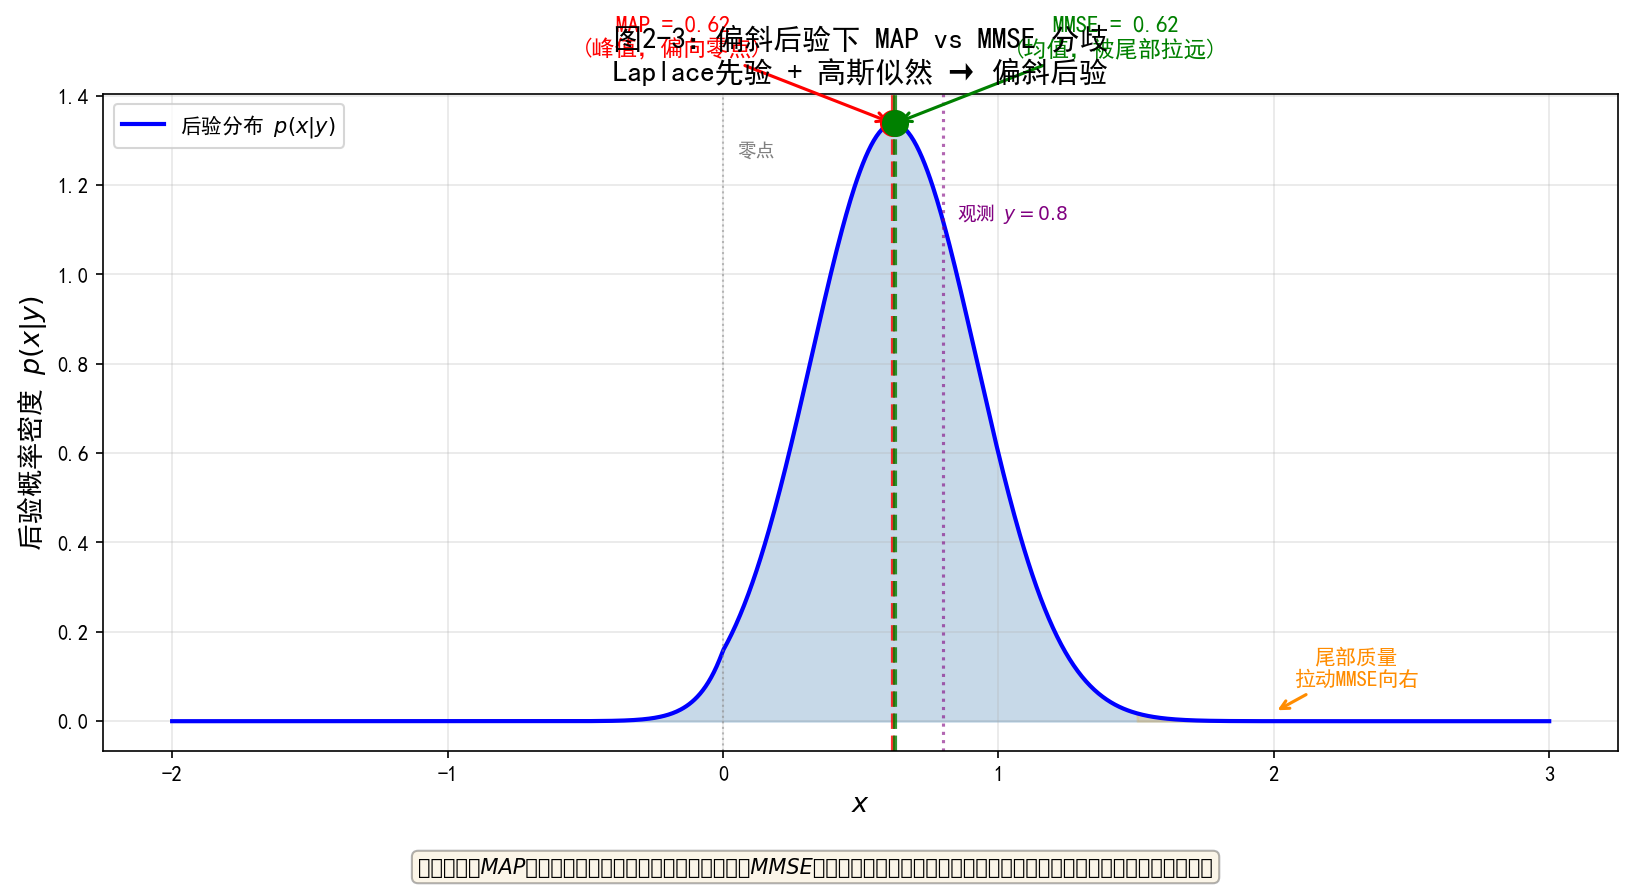
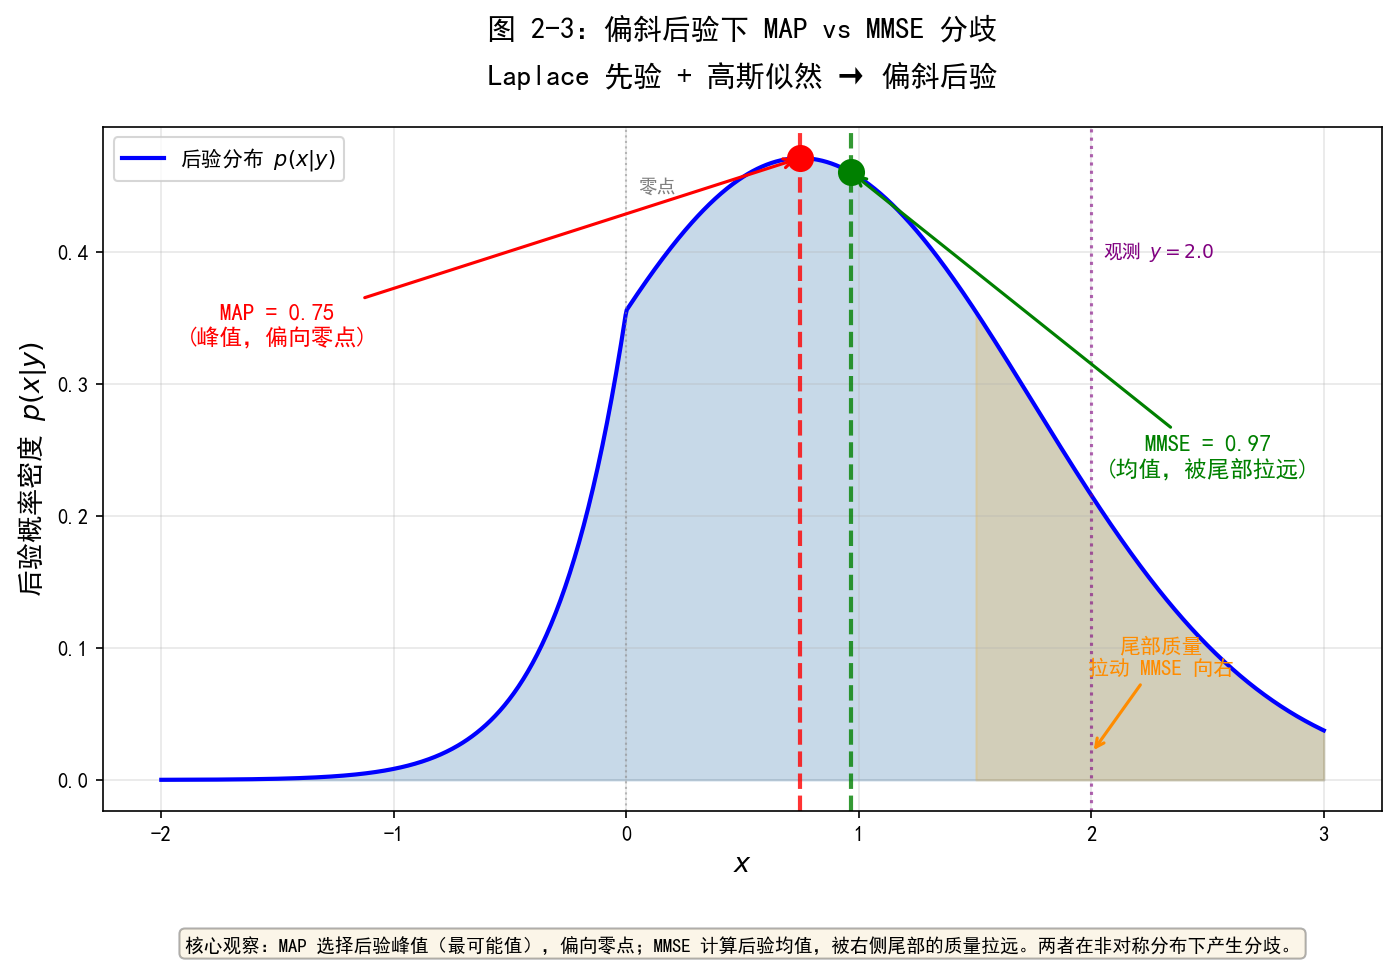
new

diff --git a/temp/图2-3_偏斜分布MMSE_vs_MAP/图2-3_偏斜分布MMSE_vs_MAP.py b/temp/图2-3_偏斜分布MMSE_vs_MAP/图2-3_偏斜分布MMSE_vs_MAP.py
@@ -1,7 +1,7 @@
 """
-图2-3：偏斜分布下 MMSE vs MAP 分歧示意
-对应章节：2.3 先验的质量：MMSE vs MAP估计器 - "分歧的情形"
-知识点：偏斜后验下，MAP偏向峰值（零点），MMSE被尾部拉远
+图 2-3：偏斜分布下 MMSE vs MAP 分歧示意
+对应章节：2.3 先验的质量：MMSE vs MAP 估计器 - "分歧的情形"
+知识点：偏斜后验下，MAP 偏向峰值（零点），MMSE 被尾部拉远
 """
 
 import numpy as np
@@ -20,31 +20,36 @@ if os.path.isdir(_chinese_path):
         from chinese_font import setup_chinese_font
         setup_chinese_font(save_dir=_chinese_path)
     except ImportError:
-        print("警告: chinese_font 模块未找到，中文字体可能无法正常显示")
+        print("警告：chinese_font 模块未找到，中文字体可能无法正常显示")
 else:
-    print("警告: .chinese 文件夹未找到，中文字体可能无法正常显示")
+    print("警告：.chinese 文件夹未找到，中文字体可能无法正常显示")
 
 # ─── 构造偏斜后验分布 ───
-# Laplace先验 + 高斯似然 → 偏斜后验
-# 先验: p(x) ∝ exp(-|x|/b)  (Laplace, b=0.5)
-# 似然: p(y|x) ∝ exp(-(y-x)^2/(2σ^2))  (σ=0.3)
-# 后验: p(x|y) ∝ exp(-|x|/b - (y-x)^2/(2σ^2))
+# 确保中文字体在所有绘图操作之前加载
+plt.rcParams['font.sans-serif'] = ['SimHei', 'Microsoft YaHei'] + plt.rcParams.get('font.sans-serif', [])
+plt.rcParams['font.family'] = 'sans-serif'
+plt.rcParams['axes.unicode_minus'] = False
+
+# Laplace 先验 + 高斯似然 → 偏斜后验
+# 先验：p(x) ∝ exp(-|x|/b)  (Laplace, b=0.5)
+# 似然：p(y|x) ∝ exp(-(y-x)^2/(2σ^2))  (σ=0.3)
+# 后验：p(x|y)  exp(-|x|/b - (y-x)^2/(2σ^2))
 # 这个后验是偏斜的：峰值偏向零点，尾部向远离零点方向延伸
 
-b = 0.5      # Laplace先验尺度
-sigma = 0.3  # 噪声标准差
-y_obs = 0.8  # 观测值
+b = 0.8      # Laplace 先验尺度（适中，MAP 被适度拉向零点但仍为正）
+sigma = 1.0  # 噪声标准差（较大，似然较宽，MMSE 被尾部拉远）
+y_obs = 2.0  # 观测值（远离零点，产生明显偏斜）
 
 # 计算后验（非归一化）
 def log_posterior(x, y, b, sigma):
-    """对数后验: log p(x|y) = -|x|/b - (y-x)^2/(2σ^2) + const"""
+    """对数后验：log p(x|y) = -|x|/b - (y-x)^2/(2σ^2) + const"""
     return -np.abs(x)/b - (y - x)**2 / (2 * sigma**2)
 
 x_range = np.linspace(-2, 3, 1000)
 log_p = log_posterior(x_range, y_obs, b, sigma)
 p = np.exp(log_p - log_p.max())  # 归一化到峰值=1
 
-# 数值归一化（使积分为1）
+# 数值归一化（使积分为 1）
 dx = x_range[1] - x_range[0]
 p = p / (p.sum() * dx)
 
@@ -59,7 +64,7 @@ x_mmse = np.trapezoid(x_range * p, x_range)
 print(f"观测值 y = {y_obs}")
 print(f"MAP  = {x_map:.4f} (后验峰值)")
 print(f"MMSE = {x_mmse:.4f} (后验均值)")
-print(f"分歧: MMSE - MAP = {x_mmse - x_map:.4f}")
+print(f"分歧：MMSE - MAP = {x_mmse - x_map:.4f}")
 
 # ─── 绘图 ───
 fig, ax = plt.subplots(figsize=(11, 6))
@@ -68,21 +73,21 @@ fig, ax = plt.subplots(figsize=(11, 6))
 ax.fill_between(x_range, p, alpha=0.3, color='steelblue')
 ax.plot(x_range, p, 'b-', linewidth=2, label='后验分布 $p(x|y)$')
 
-# MAP 标注
+# MAP 标注 - 移到左侧空白处
 ax.axvline(x=x_map, color='red', linestyle='--', linewidth=2, alpha=0.8)
 ax.plot(x_map, p[map_idx], 'ro', markersize=12, zorder=5)
 ax.annotate(f'MAP = {x_map:.2f}\n(峰值，偏向零点)', 
-            xy=(x_map, p[map_idx]), xytext=(x_map - 0.8, p[map_idx] + 0.15),
+            xy=(x_map, p[map_idx]), xytext=(-1.5, p[map_idx] * 0.7),
             fontsize=11, ha='center', color='red',
             arrowprops=dict(arrowstyle='->', color='red', lw=1.5))
 
-# MMSE 标注
+# MMSE 标注 - 移到右侧空白处
 ax.axvline(x=x_mmse, color='green', linestyle='--', linewidth=2, alpha=0.8)
-# 找到MMSE位置对应的概率密度
+# 找到 MMSE 位置对应的概率密度
 mmse_p_idx = np.argmin(np.abs(x_range - x_mmse))
 ax.plot(x_mmse, p[mmse_p_idx], 'go', markersize=12, zorder=5)
 ax.annotate(f'MMSE = {x_mmse:.2f}\n(均值，被尾部拉远)', 
-            xy=(x_mmse, p[mmse_p_idx]), xytext=(x_mmse + 0.8, p[mmse_p_idx] + 0.15),
+            xy=(x_mmse, p[mmse_p_idx]), xytext=(2.5, p[mmse_p_idx] * 0.5),
             fontsize=11, ha='center', color='green',
             arrowprops=dict(arrowstyle='->', color='green', lw=1.5))
 
@@ -90,7 +95,7 @@ ax.annotate(f'MMSE = {x_mmse:.2f}\n(均值，被尾部拉远)',
 # 找到尾部区域（x > 1.5）
 tail_mask = x_range > 1.5
 ax.fill_between(x_range[tail_mask], p[tail_mask], alpha=0.2, color='orange')
-ax.annotate('尾部质量\n拉动MMSE向右', xy=(2.0, 0.02), xytext=(2.3, 0.08),
+ax.annotate('尾部质量\n拉动 MMSE 向右', xy=(2.0, 0.02), xytext=(2.3, 0.08),
             fontsize=10, ha='center', color='darkorange',
             arrowprops=dict(arrowstyle='->', color='darkorange', lw=1.5))
 
@@ -104,20 +109,20 @@ ax.text(y_obs + 0.05, ax.get_ylim()[1]*0.8, f'观测 $y={y_obs}$', fontsize=9, c
 
 ax.set_xlabel('$x$', fontsize=13)
 ax.set_ylabel('后验概率密度 $p(x|y)$', fontsize=13)
-ax.set_title('图2-3：偏斜后验下 MAP vs MMSE 分歧\nLaplace先验 + 高斯似然 → 偏斜后验', 
-             fontsize=14, fontweight='bold')
+ax.set_title('图 2-3：偏斜后验下 MAP vs MMSE 分歧\nLaplace 先验 + 高斯似然 → 偏斜后验', 
+             fontsize=14, fontweight='bold', linespacing=1.8, pad=20)
 ax.legend(loc='upper left', fontsize=10)
 ax.grid(True, alpha=0.3)
 
-# 底部说明
-fig.text(0.5, 0.02,
-         '核心观察：MAP选择后验峰值（最可能值），偏向零点；'
-         'MMSE计算后验均值，被右侧尾部的质量拉远。两者在非对称分布下产生分歧。',
-         ha='center', fontsize=10, style='italic',
-         bbox=dict(boxstyle='round', facecolor='wheat', alpha=0.3))
+# 底部说明（使用 ax.text + transAxes，继承全局字体设置）
+ax.text(0.5, -0.18,
+        '核心观察：MAP 选择后验峰值（最可能值），偏向零点；'
+        'MMSE 计算后验均值，被右侧尾部的质量拉远。两者在非对称分布下产生分歧。',
+        ha='center', va='top', fontsize=9, transform=ax.transAxes,
+        bbox=dict(boxstyle='round', facecolor='wheat', alpha=0.3), wrap=True)
 
-plt.tight_layout(rect=[0, 0.06, 1, 1])
-plt.savefig(os.path.join(SAVE_DIR, '图2-3_偏斜分布MMSE_vs_MAP.png'), dpi=150, bbox_inches='tight')
+plt.subplots_adjust(bottom=0.12)
+plt.savefig(os.path.join(SAVE_DIR, '图 2-3_偏斜分布 MMSE_vs_MAP.png'), dpi=150, bbox_inches='tight')
 plt.close()
 
-print("图2-3已生成：", os.path.join(SAVE_DIR, '图2-3_偏斜分布MMSE_vs_MAP.png'))
+print("图 2-3 已生成：", os.path.join(SAVE_DIR, '图 2-3_偏斜分布 MMSE_vs_MAP.png'))

diff --git a/temp/图2-4_多峰后验MMSE_vs_MAP/图2-4_多峰后验MMSE_vs_MAP.py b/temp/图2-4_多峰后验MMSE_vs_MAP/图2-4_多峰后验MMSE_vs_MAP.py
@@ -23,7 +23,12 @@ if os.path.isdir(_chinese_path):
 else:
     print("警告: .chinese 文件夹未找到，中文字体可能无法正常显示")
 
-# ─── 构造双峰后验分布 ───
+# ── 构造双峰后验分布 ───
+# 确保中文字体在所有绘图操作之前加载
+plt.rcParams['font.sans-serif'] = ['SimHei', 'Microsoft YaHei'] + plt.rcParams.get('font.sans-serif', [])
+plt.rcParams['font.family'] = 'sans-serif'
+plt.rcParams['axes.unicode_minus'] = False
+
 # 模拟二值图像场景：像素值应为0或1，但观测被噪声污染
 # 先验：两个峰在0和1（二值先验）
 # 似然：高斯噪声
@@ -76,7 +81,7 @@ ax.plot(x_range, p2, 'b--', linewidth=1, alpha=0.4, label=f'分量2: $w_2={w2}$,
 ax.axvline(x=x_map, color='red', linestyle='--', linewidth=2, alpha=0.8)
 ax.plot(x_map, p[map_idx], 'ro', markersize=12, zorder=5)
 ax.annotate(f'MAP = {x_map:.2f}\n(选最高的峰)', 
-            xy=(x_map, p[map_idx]), xytext=(x_map - 0.35, p[map_idx] + 0.3),
+            xy=(x_map, p[map_idx]), xytext=(x_map - 0.35, p[map_idx] + 0.15),
             fontsize=11, ha='center', color='red',
             arrowprops=dict(arrowstyle='->', color='red', lw=1.5))
 
@@ -103,19 +108,19 @@ ax.text(mu2, -0.15, '像素值=1\n(前景)', fontsize=9, ha='center', color='blu
 ax.set_xlabel('$x$ (像素值)', fontsize=13)
 ax.set_ylabel('后验概率密度 $p(x|y)$', fontsize=13)
 ax.set_title('图2-4：多峰后验下 MAP vs MMSE 分歧\n二值图像场景：像素应为0或1，但噪声使后验呈双峰', 
-             fontsize=14, fontweight='bold')
+             fontsize=15, fontweight='bold', pad=12)
 ax.legend(loc='upper right', fontsize=9)
 ax.set_ylim(bottom=-0.2)
 ax.grid(True, alpha=0.3)
 
-# 底部说明
-fig.text(0.5, 0.02,
-         '核心观察：MAP选择概率最高的峰（此处为0），但MMSE取两峰的加权平均（0.4）。'
-         '在二值图像去噪中，MAP给出"背景"判断，而MMSE给出模糊的0.4——两者代表不同的决策哲学。',
-         ha='center', fontsize=10, style='italic',
-         bbox=dict(boxstyle='round', facecolor='wheat', alpha=0.3))
+# 底部说明（使用ax.text + transAxes，继承全局字体设置）
+ax.text(0.5, -0.15,
+        '核心观察：MAP选择概率最高的峰（此处为0），但MMSE取两峰的加权平均（0.4）。'
+        '在二值图像去噪中，MAP给出"背景"判断，而MMSE给出模糊的0.4——两者代表不同的决策哲学。',
+        ha='center', va='top', fontsize=9, transform=ax.transAxes,
+        bbox=dict(boxstyle='round', facecolor='wheat', alpha=0.3), wrap=True)
 
-plt.tight_layout(rect=[0, 0.06, 1, 1])
+plt.subplots_adjust(bottom=0.20)
 plt.savefig(os.path.join(SAVE_DIR, '图2-4_多峰后验MMSE_vs_MAP.png'), dpi=150, bbox_inches='tight')
 plt.close()
 

diff --git a/temp/图2-1_L1_vs_L2几何解释/图2-1_L1_vs_L2几何解释.py b/temp/图2-1_L1_vs_L2几何解释/图2-1_L1_vs_L2几何解释.py
@@ -8,6 +8,7 @@ import numpy as np
 import matplotlib
 matplotlib.use('Agg')
 import matplotlib.pyplot as plt
+from matplotlib.font_manager import FontProperties
 import os
 import sys
 
@@ -24,6 +25,11 @@ else:
     print("警告: .chinese 文件夹未找到，中文字体可能无法正常显示")
 
 # ─── 参数设置 ───
+# 确保中文字体在所有绘图操作之前加载
+plt.rcParams['font.sans-serif'] = ['SimHei', 'Microsoft YaHei'] + plt.rcParams.get('font.sans-serif', [])
+plt.rcParams['font.family'] = 'sans-serif'
+plt.rcParams['axes.unicode_minus'] = False
+
 theta = np.linspace(0, 2*np.pi, 400)
 
 # L2 正则项的等高线：圆形
@@ -141,16 +147,17 @@ legend_elements = [Patch(facecolor='forestgreen', alpha=0.3, edgecolor='green', 
                    plt.Line2D([0], [0], color='red', linewidth=2, label='损失函数等高线')]
 ax.legend(handles=legend_elements, loc='upper left', fontsize=9)
 
-# ── 总标题和注释 ───
-fig.suptitle('图2-1：L1 vs L2 几何解释——为什么L1促稀疏', fontsize=15, fontweight='bold', y=0.98)
-# 底部注释
-fig.text(0.5, 0.02, 
+#  总标题和注释 ─
+fig.suptitle('图2-1：L1 vs L2 几何解释\n为什么L1促稀疏', fontsize=15, fontweight='bold', y=0.96, linespacing=1.5)
+
+# 底部注释（使用fig.text在整个图底部居中）
+fig.text(0.5, 0.04, 
          '核心直觉：L2的圆形约束集没有"角点"，最优解通常不在坐标轴上；'
          'L1的菱形约束集有4个角点，椭圆更容易在角点处与之相切，从而得到稀疏解（某些分量为0）',
-         ha='center', fontsize=10, style='italic',
-         bbox=dict(boxstyle='round', facecolor='wheat', alpha=0.3))
+         ha='center', va='bottom', fontsize=9, linespacing=1.5,
+         bbox=dict(boxstyle='round', facecolor='wheat', alpha=0.3), wrap=True)
 
-plt.tight_layout(rect=[0, 0.06, 1, 0.95])
+plt.subplots_adjust(wspace=0.12, hspace=0.3, bottom=0.15, top=0.85)
 plt.savefig(os.path.join(SAVE_DIR, '图2-1_L1_vs_L2几何解释.png'), dpi=150, bbox_inches='tight')
 plt.close()
 
